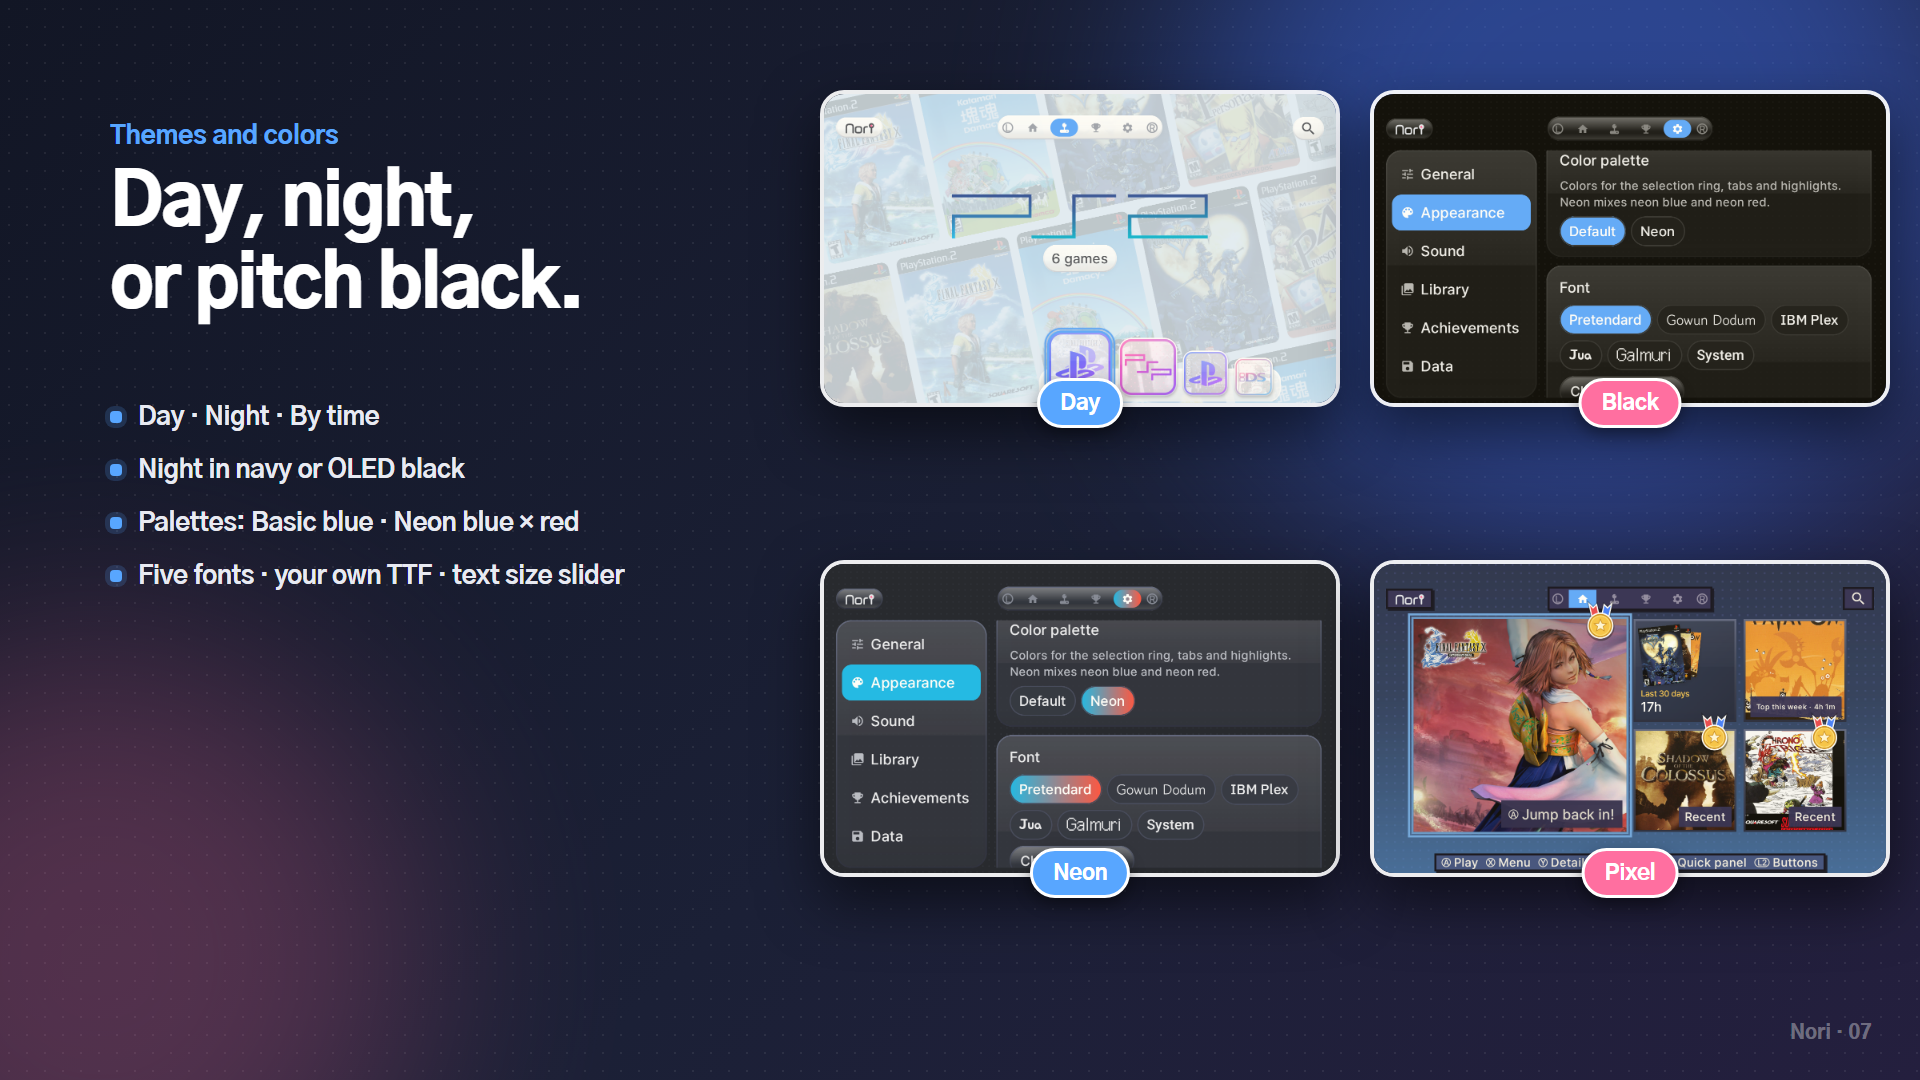
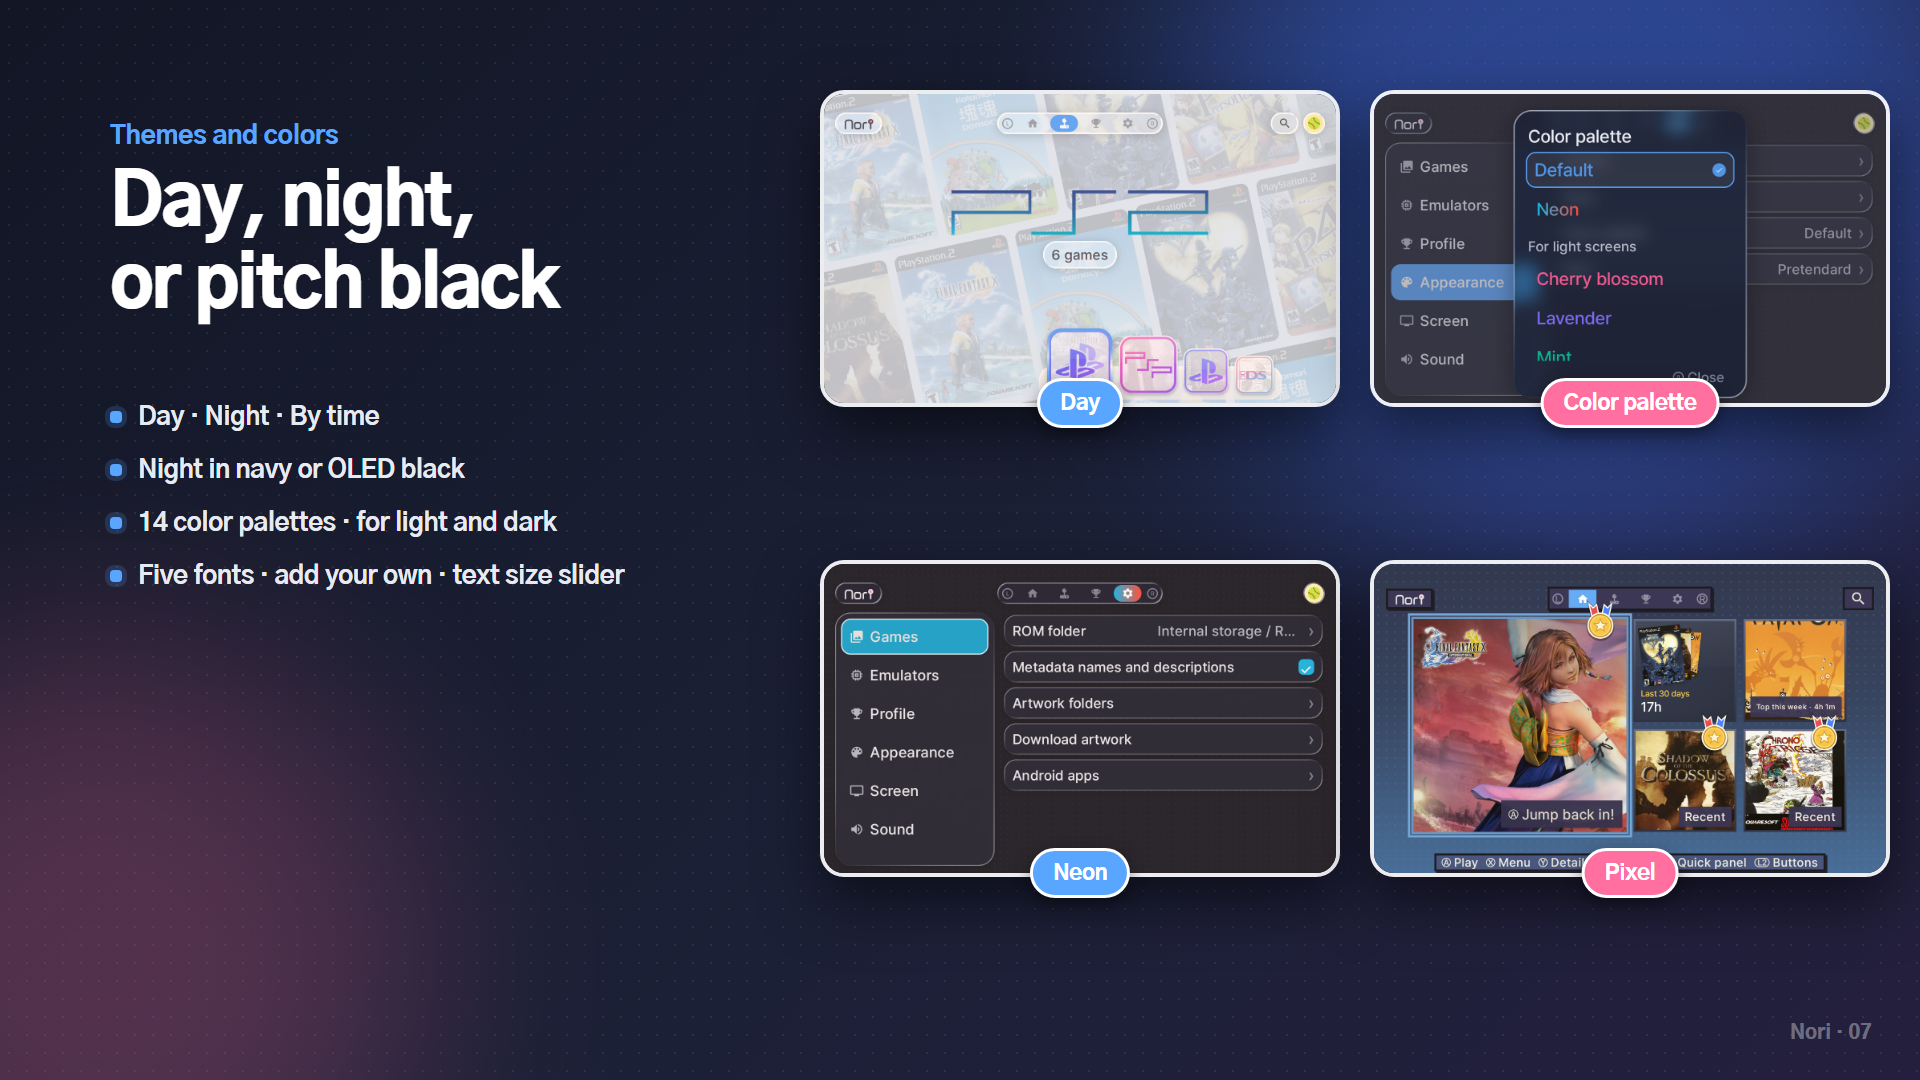
0.5.0 화면으로 README 그림 새로 만들기, 릴리스 글

diff --git a/RELEASE_BODY_v0.5.0.md b/RELEASE_BODY_v0.5.0.md
@@ -1,0 +1,79 @@
+<details>
+<summary><b>한국어</b></summary>
+
+설정 화면을 새로 정리하고, 모든 팝업을 유리 재질로 바꿨습니다. 메타데이터 읽기도 더 많은 파일을 지원합니다.
+
+**새로 생긴 것**
+
+- **상단 바:** 오른쪽 위에 프로필 사진이 늘 있고, 게임 탭에 들어가면 찾기 단추가 나옵니다. 프로필 사진을 누르면 자랑 카드가 뜹니다.
+- **색상 팔레트:** 낮 화면용 6개와 밤 화면용 6개를 더해 14가지입니다.
+- **배경음악 고르기:** 테마와 상관없이 노리 곡을 고를 수 있습니다.
+- **글꼴 여러 개:** TTF, OTF 파일을 여러 개 넣어 두고 골라 쓸 수 있습니다.
+- **못 읽은 폴더 안내:** 이름으로 기기를 알 수 없는 폴더를 알려 주고, 직접 기기를 고를 수 있습니다.
+- **업적 전체 현황:** 플래티넘, 금, 은, 동을 각각 몇 개 모았는지 한눈에 보여 줍니다.
+
+**바뀐 것**
+
+- **설정:** 분류를 고르면 칸 이름이 먼저 나오고, 필요한 칸만 열어 봅니다. 분류 이름과 위치도 바뀌었습니다.
+- **팝업:** 싱글 스크린에서도 뒤 화면이 비치는 유리 재질입니다.
+- **자랑 카드:** 앱과 같은 톤으로 바꾸고 더 크게 띄웁니다. 카드를 열기만 해서는 저장되지 않습니다.
+- **빠른 설정:** 스타일, 낮·밤 모드, 게임 이름 표시, 듀얼 스크린 칸 크기만 남겼습니다.
+- **앱 아이콘:** 새 아이콘으로 바꿨습니다.
+
+**고친 것**
+
+- **소리:** 패드로 음량을 줄일 수 없던 오류를 고쳤습니다.
+- **장르:** `슈팅-아케이드`처럼 아케이드가 뒤에 붙은 Pegasus `collection`도 장르로 읽습니다. `횡스크롤슈팅`, `비행슈팅` 같은 이름도 알맞은 장르로 들어갑니다.
+- **메타데이터:** BOM 포함 파일과 CP949 파일, 맨 위 `Roms/metadata.txt`, 메타데이터 폴더의 `arcade/mame/metadata.txt`도 읽습니다.
+- **아케이드:** `stvbios`, `neogeo` 같은 바이오스가 게임 목록에 나오지 않습니다.
+- **낮·밤 전환:** 전환 뒤 창 색이 회색으로 변하던 오류를 고쳤습니다.
+
+**알아 두실 점**
+
+- 업데이트 뒤 처음 켤 때 자동으로 한 번 다시 훑습니다. 앞으로 새 판을 깔 때마다 같습니다.
+- 바이오스 목록에 없는 이름은 계속 게임으로 보일 수 있습니다. 보이면 알려 주세요.
+
+**설치:** 노리 안에서 「업데이트 확인」을 누르거나, 아래 `Nori-0.5.0.apk`를 받아 쓰던 노리 위에 덮어 깔면 됩니다. 설치할 때 「유해한 앱」 경고가 뜨면 「세부정보 → 무시하고 설치」를 누르세요. 처음이시면 [시작 안내](https://github.com/nori-launcher/Nori#시작-안내)를 봐 주세요. `Nori-0.5.0-update.apk`는 앱 안 업데이트가 쓰는 파일이고 내용은 같습니다.
+버그는 [이슈](https://github.com/nori-launcher/Nori/issues/new/choose)로 알려 주세요.
+
+</details>
+
+<details>
+<summary><b>English</b></summary>
+
+Settings have been reorganized and every dialog is now glass. Metadata reading also supports more files.
+
+**New**
+
+- **Top bar:** your profile photo is always at the top right, and the search button appears on the Games tab. Tap the photo to open your Show off card.
+- **Color palette:** 6 colors for light screens and 6 for dark screens were added, for 14 in total.
+- **Choose music:** pick any Nori track, whatever the theme.
+- **Multiple fonts:** add several TTF or OTF files and switch between them.
+- **Unread folders:** Nori tells you which folders it couldn't match to a system and lets you choose one.
+- **Achievement overview:** see your Platinum, Gold, Silver and Bronze counts at a glance.
+
+**Changed**
+
+- **Settings:** each category lists its sections first, and you open only the one you need. Some categories were renamed or moved.
+- **Dialogs:** now translucent glass on single-screen devices too.
+- **Show off card:** matches the app's look and opens larger. Opening it no longer saves an image.
+- **Quick settings:** now only style, day and night, game name and dual-screen tile sizes.
+- **App icon:** new icon.
+
+**Fixed**
+
+- **Sound:** volume couldn't be lowered with the pad.
+- **Genres:** Pegasus collections with Arcade at the end, like `Shooter - Arcade`, are now read as genres.
+- **Metadata:** files with a BOM, CP949 files, a top-level `Roms/metadata.txt` and `arcade/mame/metadata.txt` in the metadata folder are now read.
+- **Arcade:** BIOS sets such as `stvbios` and `neogeo` no longer appear as games.
+- **Day and night:** dialogs and panels no longer turn gray after switching.
+
+**Good to know**
+
+- Nori rescans once the first time you open each new version.
+- BIOS names not on the list may still appear as games. Please let us know if you see one.
+
+**Install:** use Settings → Info → Check for updates inside Nori, or download `Nori-0.5.0.apk` below and install it over your current Nori. If Android warns about a harmful app, tap "More details → Install anyway". New here? See the [Getting started guide](https://github.com/nori-launcher/Nori/blob/main/README.en.md). `Nori-0.5.0-update.apk` is the same app, used by the in-app updater.
+Report bugs via [Issues](https://github.com/nori-launcher/Nori/issues/new/choose).
+
+</details>
